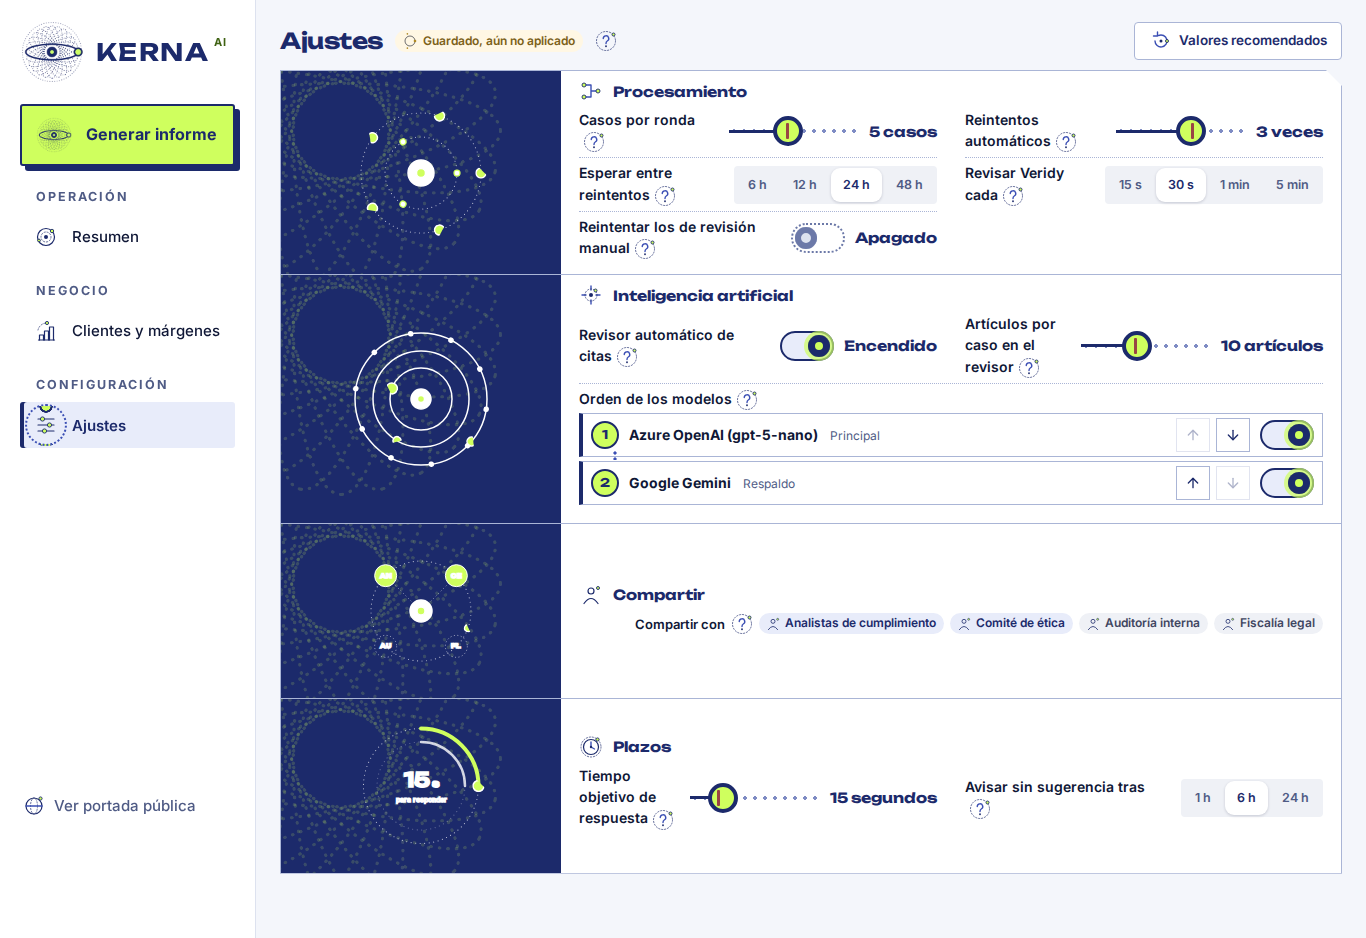
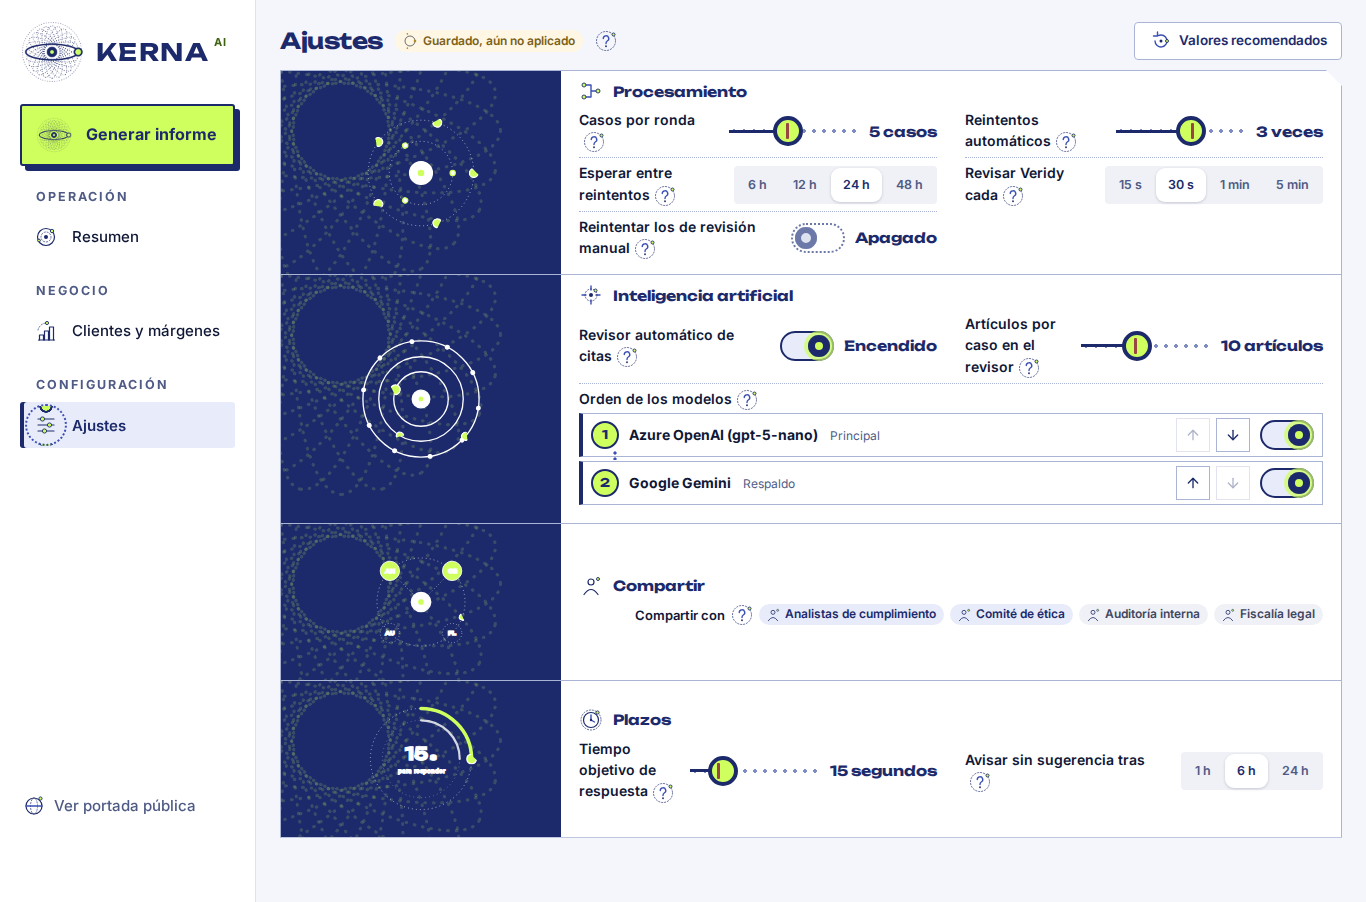
docs(pendientes): relevo del rediseño Núcleo (hecho, mediciones de producción y lo que falta); capturas prod7-

diff --git a/pendientes/kerna-pendientes.md b/pendientes/kerna-pendientes.md
@@ -394,13 +394,18 @@ Producción (desplegada con `desplegar.sh --ref HEAD`, commit af296a03e + 2 de d
 - Plantillas nuevas: `panel.html` (barra, protagonista, KPI en banda, camino, leyes, mapa solo con 7+ días, modal `<dialog>`), `negocio.html`, `ajustes.html` (superficie única, filas, panel azul con órbitas por sección), `informe.html`, `informe_cuerpo.html`. CSS v6 al final de `kerna.css`. JS: modal de reintentar con fetch, refresco en vivo que reemplaza `#zona`, cascada de Negocio, orbitas vivas de Ajustes (`ajustes.js`, `ORB`).
 - Glosario y textos sin referencias a «capítulo 25» ni «Tabla»; quedan solo en comentarios de código.
 
+### Relevo 2026-11-12 (agente 3): hecho y desplegado
+Desplegado con `desplegar.sh --ref HEAD` (último commit: "paneles orbitales de Ajustes más bajos"; antes bbfea63a7 y el de Datos). 94 pruebas del front pasan.
+- Puntos 1 y 2 (commit bf5927945) y los cambios sin commitear del agente anterior (CSS de k-st/k-n/lx inline-block, PESTANAS de medir_vistas.py) conservados.
+- Causa raíz de los "íconos perdidos": `identidad.svg` era XML inválido (atributo `style` duplicado en `n-margen`, `construir_identidad.py` línea 68); el navegador cortaba el sprite y los símbolos siguientes (n-persona, n-ia, n-clientes, n-modelo, n-flujo, …) salían vacíos. Corregido, regenerado y con prueba `test_sprites_son_xml_valido` (`test_front_rediseno.py`). Los sprites `.svg` ahora se sirven con `Cache-Control: no-cache` (ETag) para que un cambio llegue de inmediato (`principal.py`, middleware).
+- Punto 5 (portada): el círculo lima pálido en el borde era el satélite pintado en `app/estaticos/img/bg-orbitas.webp` (fondo fijo, a mitad de altura): quitado de la imagen. Anillos exteriores del logo ya no giran ni llevan satélites (`kerna.js` buildLogo). `.hero-logo{overflow:clip}` elimina el desborde horizontal en móvil (scrollWidth 416). Círculo hueco de la guilloche de `.card-hi` movido fuera de la tarjeta. Pasos con íconos de la identidad (`n-denuncias`, `n-persona`, `n-acierto`, `n-ia`); tarjetas de ley con `l-karin`, `l-datos`, `l-penal` (`portada.html`).
+- Punto 3 (alturas) y 4 (móvil): deslizadores de Ajustes 130 px (etiqueta ya no se parte en 3-4 líneas), "?" en línea con la etiqueta, móvil con etiqueta arriba y control debajo, paneles azules orbitales conservados y más bajos (136 px / 96 px móvil); Resumen: chips de leyes junto a los anillos, mapa de calor 170 px, `.bn` 10 px; Negocio: cascada a todo el ancho (etiquetas ya no se pisan), etiquetas con salto de línea en móvil; Datos: filas planas (sin tarjetas), "1 fila"/"N filas"; baldosa del veredicto ya no pisa el título en móvil. Sin desborde horizontal medido en las 4 vistas y 6 pestañas a 390 y 1366 (Datos tenía 1 px: corregido).
+- Punto 6 (rendimiento, producción, sin caché / con caché): portada TTFB 31-73 ms / 12-15 ms, 322 KB / 9 KB, 15 recursos, CPU en reposo 0 %; vistas del panel TTFB 11-29 ms (Ajustes 78-180 ms: lee la tabla), HTML 8-10 KB gzip, Informe 219 KB (echarts diferido), CPU en reposo 0-0,3 %. Cumple TTFB ~0,05 s y ~450 KB. Datos en `kerna/front/diseno-v2/capturas/prod7-extra.json`.
+- Punto 8 (capturas): `kerna/front/diseno-v2/capturas/prod7-*.png` (390 = `-m`, 1366 = `-d`; vistas, 6 pestañas del informe, `prod7-portada-{d,m}.png`, `prod7-reintentar-modal-{d,m}.png`) y `prod7.json`.
+
 ### Falta (en este orden)
-1. Pruebas: 10 fallan porque aún afirman la estructura vieja (`test_front_ajustes.py::test_negocio_sin_bloque_ni_ventas` y `test_informe_compacto_html_y_pdf`, `test_front.py::test_acceso_cookie_y_panel`, `test_front_rediseno.py` 4 pruebas del informe y la del ícono, `test_front_reintentos.py::test_flujo_confirmar_pedir_y_doble_clic` y `test_panel_muestra_bloque...`, `test_front_vistas.py::test_render_resumen_sin_cifras_crudas`). Reescribirlas para la estructura nueva y agregar: prueba de que todo `<use href="…#id">` apunta a un id existente en `identidad.svg`/`iconos.svg`; prueba del modal (`<dialog id="dlg-rei">`, `data-reintentar` es enlace a `/panel/reintentar`).
-2. `panel.html`: el bloque de reintentos está dentro del `{% else %}` de `error`; debe mostrarse aunque fallen las métricas (lo exigen dos pruebas de reintentos).
-3. Renderizar y mirar capturas (`herramientas/medir_vistas.sh <url> kerna/front/diseno-v2/capturas/prod7- salida.json 1366 390`): ajustar CSS v6 (alturas meta: Resumen ≤ 1,3 pantallas, Negocio ≤ 1.100 px, Ajustes ≈ 850 px, informe ≤ 1 pantalla por pestaña), huecos > 16 px, orbes de Ajustes, mapa de calor.
-4. Móvil: la causa medida del desborde en producción es la tarjeta de Proyección de Negocio (`.stats` con `white-space:nowrap` dentro de un grid sin `min-width:0`, 376 px de scrollWidth a 360 px). Las bandas nuevas llevan `min-width:0`; verificar `scrollWidth == clientWidth` a 360, 375, 390 y 414 en las 4 vistas y las 6 pestañas.
-5. Portada: ícono suelto sobre «personales», círculo lima pálido en el borde (derecho o izquierdo), íconos vacíos en «Cuatro pasos» y «Es una sugerencia» (ids de `<use>` que ya no existen: ver `portada.html` y `kl*`/`.node`), agregar íconos de ley (`l-karin`, `l-datos`, `l-penal`) a las tarjetas de leyes. Buscar con `document.elementFromPoint` en el borde; sospechosos: `.kl .ly.ping`, `.hero-logo::before`, `.nav a.on::after`.
-6. Rendimiento: medir en frío y en caliente (TTFB, LCP, peso, 304, gzip, CPU) por vista y portada; comparar con TTFB ~0,05 s y ~450 KB. Sospechas: `identidad.svg` pesa 55 KB sin comprimir (comprimir en gzip ya aplicado; dividir por vista si hace falta), refresco en vivo cada 60 s ahora pide la página entera, arranque en frío del F1. Probar `content-visibility:auto` en `.bn`.
-7. PDF (`exportar.py`): cabecera con baldosa del veredicto (PNG pre-renderizadas con Playwright en `app/estaticos/img/`), KPI en la página 1, una página por pestaña con su visual, anexo de tablas.
-8. Capturas `prod7-*` a 390 y 1366 de cada vista y pestaña, `prod7-reintentar-modal`, revisión con la checklist de la sección 8 de `direccion-diseno.md`, y el informe de alturas antes/después. Alturas «antes» medidas el 2026-11-12 (1366 / 390): Resumen 1.775 / 2.708, Negocio 1.477 / 2.485, Ajustes 1.213 / 1.894, Informe 850 / 1.623 (cuerpo en pestaña; Datos 1.320 / 1.919). Archivo con todas: scratchpad de la sesión (`antes/antes.json`), reproducibles con `medir_vistas.sh` sobre el commit af296a03e.
-9. Desplegar solo cuando las pruebas pasen: `kerna/front/desplegar.sh --ref HEAD`.
+1. Punto 7, PDF (`kerna/front/app/exportar.py`, no tocado): cabecera con baldosa del veredicto (PNG pre-renderizadas con Playwright en `app/estaticos/img/`), KPI en la página 1, una página por pestaña con su visual, anexo de tablas.
+2. Sprites en el resto de la UI: íconos de línea Lucide que quedan sin equivalente propio (`lock`, `eye-off`, `quote`, `layout-dashboard` de la portada y la banda de protección); si se quieren 100 % de identidad, agregar `n-candado`, `n-oculto`, `n-cita` en `construir_identidad.py` (dict NUEVOS) y mapear en `graficos.A_NUCLEO`.
+3. Alturas aún sobre meta en 1366 (producción, datos reales): Ajustes 902 px (meta 850), Datos 1.142; en 390: Resumen 1.481, Ajustes ~1.570, Negocio 1.371, Datos 1.585. Informe: una pantalla por pestaña en 1366, 1.150-1.250 px en 390.
+4. Ajustes: la fila "Compartir" deja hueco bajo el título (`.as-s` de 1 sola fila usa `.ap` min-height); considerar altura automática para secciones de 1 fila (`kerna.css`, bloque v6, línea ~914).
+5. Panel de reintentos en Resumen: con "Pedido en curso" el tercer motivo queda aislado a la derecha (`.cola-a{margin-left:auto}`, `kerna.css` ~853); alinearlo a la izquierda.
